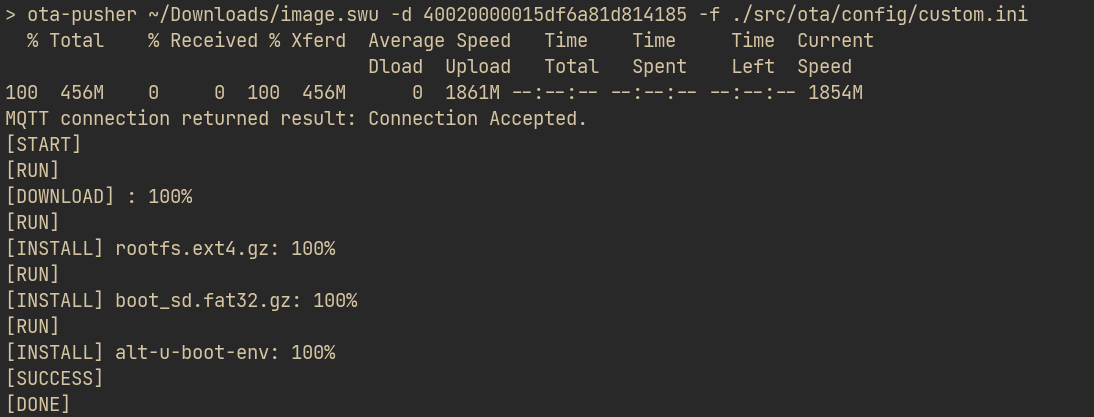
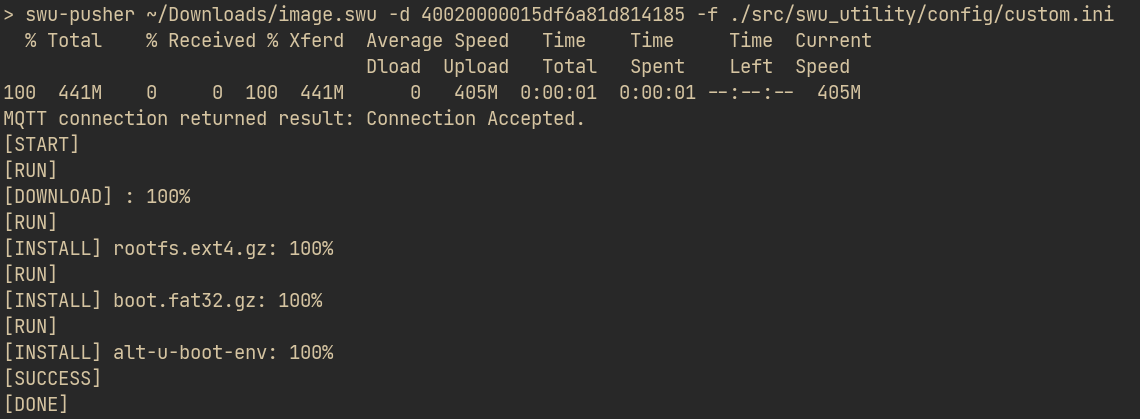
doc: update OTA.md

Changed region(s): [[0.0, 0.0, 0.9945, 0.9976]]

diff --git a/tocs/2.Software/OTA.md b/tocs/2.Software/OTA.md
@@ -8,8 +8,8 @@ We provide Image-based Over-the-Air update on EXMU-X261. One can use our tooling
 - [Overview](#overview)
 - [Prerequisites](#prerequisites)
 - [Prepare for OTA](#prepare-for-ota)
-    - [On EXMU-X261: install ota service](#on-exmu-x261-install-ota-service)
-    - [On host machine: install `ota-pusher` and run OTA server](#on-host-machine-install-ota-pusher-and-run-OTA-server)
+    - [On EXMU-X261: install `swu-client` service](#on-exmu-x261-install-swu-client-service)
+    - [On host machine: install `swu-pusher` and run OTA server](#on-host-machine-install-swu-pusher-and-run-ota-server)
     - [Custom configuration file](#custom-configuration-file)
 - [Start OTA](#start-ota)
 - [FAQ](#faq)
@@ -22,12 +22,16 @@ We provide Image-based Over-the-Air update on EXMU-X261. One can use our tooling
 
 # Prepare for OTA
 
-## On EXMU-X261: install ota service
+## On EXMU-X261: install `swu-client` service
 
 1. Install the RPM package.
 
     ```bash
-    sudo dnf install ./ota-0.0.1-1.aarch64.rpm
+    wget https://raw.githubusercontent.com/InnoIPA/EXMU-X261-swu-utility/main/rpm/release-0.0.1/swu-client-0.0.1-1.aarch64.rpm
+    ```
+
+    ```bash
+    sudo dnf install ./swu-client-0.0.1-1.aarch64.rpm
     ```
 
     <details>
@@ -39,18 +43,18 @@ We provide Image-based Over-the-Air update on EXMU-X261. One can use our tooling
 
 
 
-## On host machine: install `ota-pusher` and run OTA server
+## On host machine: install `swu-pusher` and run OTA server
 
-1.  Clone ota repo.
+1.  Clone EXMU-X261-swu-utility repo.
 
     ```bash
-    git clone https://github.com/aiotads/ota__confidential.git ota
+    git clone https://github.com/InnoIPA/EXMU-X261-swu-utility
     ```
 
-2. Install `ota-pusher`.
+2. Install `swu-pusher`.
 
     ```bash
-    cd ota
+    cd EXMU-X261-swu-utility
     pip3 install ./
     ```
 
@@ -70,7 +74,9 @@ We provide Image-based Over-the-Air update on EXMU-X261. One can use our tooling
 
 ## Custom configuration file
 
-Both ota service running on EXMU-X261 and `ota-pusher` need configuration files. Two examples are included in ota repo. We are now going to create a custom configuration file from `local.ini`.
+Both `swu-client` service running on EXMU-X261 and `swu-pusher` need configuration files.
+Two [examples](https://github.com/InnoIPA/EXMU-X261-swu-utility/tree/main/src/swu_utility/config) are included in our repo.
+We are now going to create a custom configuration file from `local.ini`.
 
 - the content of `local.ini`
 
@@ -87,37 +93,37 @@ Both ota service running on EXMU-X261 and `ota-pusher` need configuration files.
 
 **Note:** In the following section, we assume IP addresses of your host machine and EXMU-X261 are 192.168.0.1 and 192.168.0.2 respectively.
 
-1. `cd` into our ota repo.
+1. `cd` into our EXMU-X261-swu-utility repo.
 
     ```bash
-    cd ota
+    cd EXMU-X261-swu-utility
     ```
 
 2. Make a copy of `local.ini`, and rename it to `custom.ini`. 
 
     ```bash
-    cp ./src/ota/config/{local.ini,custom.ini}
+    cp ./src/swu_utility/config/{local.ini,custom.ini}
 
     ```
 
 3. Substitute `localhost` into your host machine’s IP, in this case, 192.168.0.1.
 
     ```bash
-    sed -i 's/localhost/192.168.0.1/' ./src/ota/config/custom.ini
+    sed -i 's/localhost/192.168.0.1/' ./src/swu_utility/config/custom.ini
     ```
 
-4. Copy `custom.ini` to EXMU-X261 and restart ota service.
+4. Copy `custom.ini` to EXMU-X261 and restart `swu-client` service.
 
     ```bash
-    scp ./src/ota/config/custom.ini petalinux@192.168.0.2:~/config.ini
-    ```
-
-    ```bash
-    ssh -t petalinux@192.168.0.2 'sudo mv ~/config.ini /opt/innodisk/ota'
+    scp ./src/swu_utility/config/custom.ini petalinux@192.168.0.2:~/config.ini
     ```
 
     ```bash
-    ssh -t petalinux@192.168.0.2 'sudo systemctl restart ota'
+    ssh -t petalinux@192.168.0.2 'sudo mv ~/config.ini /opt/innodisk/swu_utility'
+    ```
+
+    ```bash
+    ssh -t petalinux@192.168.0.2 'sudo systemctl restart swu-client'
     ```
 
     **Note:** You may need to type petalinux’s password twice, one for `ssh` and another for `sudo`.
@@ -130,23 +136,23 @@ Both ota service running on EXMU-X261 and `ota-pusher` need configuration files.
     Execute `journalctl` on EXMU-X261 and look for the line containing "Device DNA".
 
     ```bash
-    sudo journalctl -f -u ota 
+    sudo journalctl -f -u swu-client
     ```
 
     ![OTA_dna.png](./fig/OTA_dna.png)
 
-2. To trigger the OTA process, execute `ota-pusher` on the host machine 
-    - the usage of `ota-pusher`
+2. To trigger the OTA, execute `swu-pusher` on the host machine 
+    - the usage of `swu-pusher`
 
         ```bash
-        ota-pusher <path to a image file> -d <dna> -f <path to a config file>
+        suw-pusher <path to a image file> -d <dna> -f <path to a config file>
         ```
 
     - e.g.
 
         ```bash
-        # inside our ota repo
-        ota-pusher ~/Downloads/image.swu -d 40020000015df6a81d814185 -f ./src/ota/config/custom.ini
+        # inside our EXMU-X261-swu-utility repo
+        swu-pusher ~/Downloads/image.swu -d 40020000015df6a81d814185 -f ./src/swu_utility/config/custom.ini
         ```
 
         ![OTA_running.gif](./fig/OTA_running.gif)
@@ -164,12 +170,12 @@ Both ota service running on EXMU-X261 and `ota-pusher` need configuration files.
 
 # FAQ
 
-1. After executing `ota-pusher`, no progress status is outputed.
+1. After executing `swu-pusher`, no progress status is outputed.
 
     ![OTA_faq1.png](./fig/OTA_faq1.png)
 
-    Make sure ota service is running. Execute `sudo systemctl status ota` on EXMU-X261 to verify that ota service is indeed running. If not, execute `sudo systemctl start ota` to start the service. 
+    Make sure `swu-client` service is running. Execute `sudo systemctl status swu-client` on EXMU-X261 to verify that `suw-client` service is indeed running. If not, execute `sudo systemctl start swu-client` to start the service. 
 
 2. What if an update failes?
 
-    To see why an update failes, execute `sudo journalctl -u ota` to see logs.
+    To see why an update failes, execute `sudo journalctl -u swu-client` to see logs.
